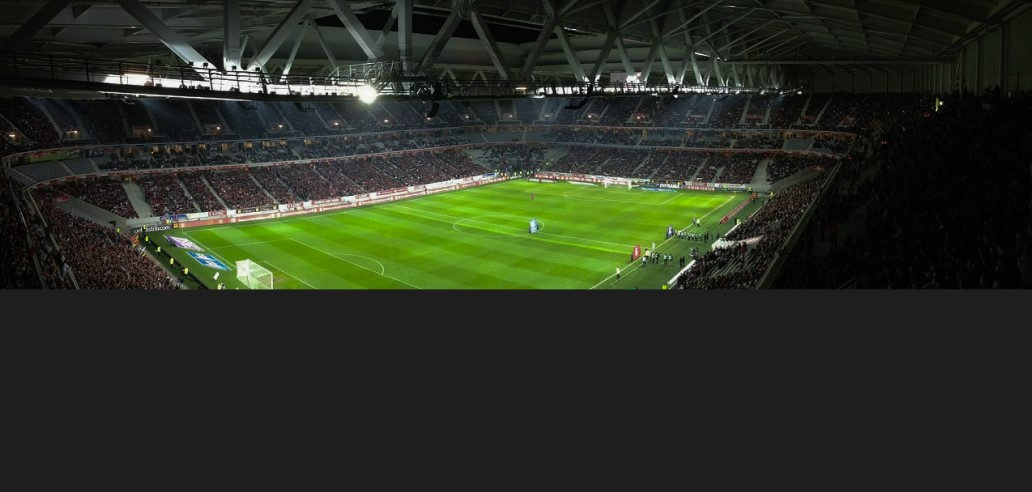
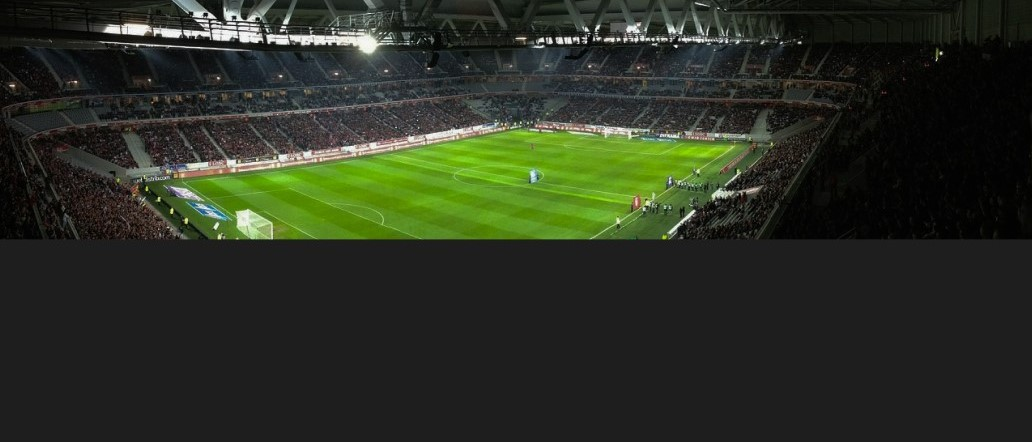
Football.image geändert-script2js geändert

Changed region(s): [[0.0, 0.0, 1.0, 0.5882], [0.8992, 0.0882, 1.0, 0.2353]]

diff --git a/Football_Bl/footballInfo.html b/Football_Bl/footballInfo.html
@@ -5,7 +5,7 @@
     <meta charset="UTF-8">
     <meta name="viewport" content="width=device-width, initial-scale=1.0">
     <title>Manschaft Info</title>
-    <script src="script.js" defer></script>
+    <script src="script2.js" defer></script>
     <script src="https://cdn.tailwindcss.com"></script>
 
     <script>
@@ -33,12 +33,36 @@
 </head>
 
 <body>
+
+
     <div class="bg-Bg2 h-screen">
 
-        <a class="bg-yellow w-2/4 h-28 left-1/4 bottom-10  border-yellow border-8 rounded-xl   absolute flex justify-center items-center text-black text-5xl font-hind" href="web.html">View Full Table</a>
+
+        <div class="bg-Bg2 h-[10vh] max-w-screen grid grid-cols-3 items-center text-center text-white ">
+            <div class="grid grid-cols-5">
+                <div class="col-span-1"></div>
+                <div class="col-span-2 ">LOGO</div>
+                <div class="col-span-2"></div>
+            </div>
+
+            <div class="grid grid-cols-6">
+                <div class="col-span-6 text-3xl">FC Bayern Münschen</div>
+
+            </div>
+
+            <div class="grid grid-cols-5">
+                <div class="col-span-2"></div>
+                <div class="col-span-2">LOGO</div>
+                <div class="col-span-1"></div>
+            </div>
+        </div>
+
+
+
+        <a class="bg-yellow w-2/4 h-28 left-1/4 bottom-10  border-yellow rounded-xl absolute flex justify-center items-center text-black text-4xl font-hind" href="web.html">View Full Table</a>
+
 
     </div>
-
 </body>
 
 </html>

diff --git a/Football_Bl/web.html b/Football_Bl/web.html
@@ -35,12 +35,11 @@
         </div>
     </div>
 
-
     <div class="bg-Bg2">
         <div class="bg-background1 h-[10vh] max-w-screen grid grid-cols-3 items-center text-center text-white">
             <div class="grid grid-cols-9">
                 <div class="col-span-1"></div>
-                <div class="col-span-1">logo</div>
+                <div class="col-span-1">Logo</div>
                 <div class="col-span-5">Team name</div>
                 <div class="col-span-2">Matches</div>
             </div>

diff --git a/Football_Bl/script.js b/Football_Bl/script.js
@@ -15,7 +15,7 @@ function insertTable(data) {
 
     data.forEach((team, index) => {
         html += `
-        <div class="bg-firstplays max-w-full  grid grid-cols-3 items-center text-center text-white mt-5 border-2 border-neutral-900 row-span-4">
+        <div class="bg-firstplays max-w-full  grid grid-cols-3 items-center text-center text-black mt-5 border-2 border-neutral-900 row-span-4">
             
             <div class="grid grid-cols-9">
                 <div class="col-span-1 ">${index +1}</div>

diff --git a/Football_Bl/script2.js b/Football_Bl/script2.js
@@ -1,0 +1,8 @@
+const urlParams = new URLSearchParams(window.location.search);
+const id = urlParams.get('id');
+
+
+fetch("https://api.openligadb.de/getbltable/bl1/2023").then((res) => res.json().then((data) => {
+    let team = data.find((team) => (team.teamInfoId == id));
+    console.log(team);
+}))

diff --git a/Football_Bl/style.css b/Football_Bl/style.css
@@ -10,8 +10,7 @@
 
 .header {
     width: 100%;
-    height: 50vh;
-    object-fit: cover;
+    height: 40vh;
     background: url('./Image/Football.jpg') center/cover no-repeat fixed;
 }
 
